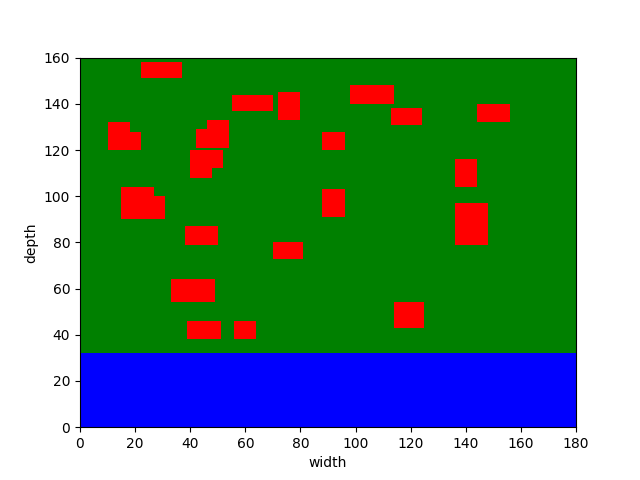
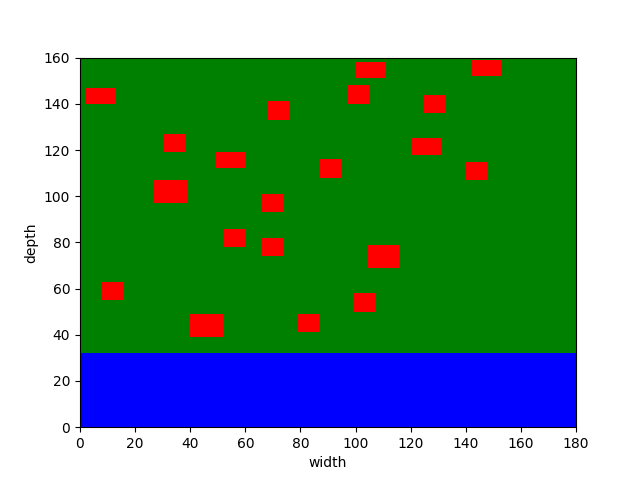
added some minor changes

diff --git a/code/algorithms/moving_hillclimber.py b/code/algorithms/moving_hillclimber.py
@@ -101,19 +101,19 @@ class Moving_Hillclimber:
 
         if random_direction == "up":
             # The y-coordinate goes up by 1
-            random_house_coordinates = [random_house.corner_lowerleft[0], random_house.corner_lowerleft[1] + 4]    
+            random_house_coordinates = [random_house.corner_lowerleft[0], random_house.corner_lowerleft[1] + 2]    
 
         elif random_direction == "down":
             # The y-coordinate goes down by 1
-            random_house_coordinates = [random_house.corner_lowerleft[0], random_house.corner_lowerleft[1] - 4]
+            random_house_coordinates = [random_house.corner_lowerleft[0], random_house.corner_lowerleft[1] - 2]
 
         elif random_direction == "left":
             # The x-coordinate goes down by 1
-            random_house_coordinates = [random_house.corner_lowerleft[0] - 4, random_house.corner_lowerleft[1]]
+            random_house_coordinates = [random_house.corner_lowerleft[0] - 2, random_house.corner_lowerleft[1]]
 
         elif random_direction == "right": 
             # The x-coordinate goes up by 1
-            random_house_coordinates = [random_house.corner_lowerleft[0] + 4, random_house.corner_lowerleft[1]]
+            random_house_coordinates = [random_house.corner_lowerleft[0] + 2, random_house.corner_lowerleft[1]]
 
         return random_house_coordinates
 
@@ -141,18 +141,18 @@ class Moving_Hillclimber:
         """
         if random_direction == "up":
             # The y-coordinate goes down by 1
-            random_house_coordinates = [random_house.corner_lowerleft[0], random_house.corner_lowerleft[1] - 4]
+            random_house_coordinates = [random_house.corner_lowerleft[0], random_house.corner_lowerleft[1] - 2]
 
         elif random_direction == "down":
             # The y-coordinate goes up by 1
-            random_house_coordinates = [random_house.corner_lowerleft[0], random_house.corner_lowerleft[1] + 4]
+            random_house_coordinates = [random_house.corner_lowerleft[0], random_house.corner_lowerleft[1] + 2]
 
         elif random_direction == "left":
             # The x-coordinate goes up by 1
-            random_house_coordinates = [random_house.corner_lowerleft[0] + 4, random_house.corner_lowerleft[1]]
+            random_house_coordinates = [random_house.corner_lowerleft[0] + 2, random_house.corner_lowerleft[1]]
 
         elif random_direction == "right":
             # The x-coordinate goes down by 1
-            random_house_coordinates = [random_house.corner_lowerleft[0] - 4, random_house.corner_lowerleft[1]]
+            random_house_coordinates = [random_house.corner_lowerleft[0] - 2, random_house.corner_lowerleft[1]]
 
         return random_house_coordinates

diff --git a/code/algorithms/annealing.py b/code/algorithms/annealing.py
@@ -1,6 +1,6 @@
 import random
-import copy
 import math
+import copy
 import matplotlib.pyplot as plt
 
 from code.classes.graph import Graph
@@ -22,20 +22,21 @@ class Simulated_Annealing(Moving_Hillclimber):
         """
 
         # Simulated Annealing Parameters
-        temp = 30
+        temp = 100000
         final_temp = 0.1    
-        alpha = 0.01
+        alpha = 0.99
 
+        # save the final prices to plot
         y_axes = []
 
         # create a random state
         current_state = self.area.randomly_assign_houses(self.houses)
+        # temporary best state
         solution = copy.deepcopy(self.houses)
 
         while temp > final_temp:
 
             for change in range(self.changes):
-                    
                 # make n changes to the positions of random houses
                 given_direction = self.random_direction()
                 moving_house = self.random_house(self.houses)
@@ -51,7 +52,7 @@ class Simulated_Annealing(Moving_Hillclimber):
             # calculate the cost difference
             cost_diff = new_totalprice - solution_totalprice
 
-            # if better -> keep this state
+            # keep new state if better than current solution
             if solution_totalprice < new_totalprice:
                 solution_totalprice = new_totalprice
                 solution = copy.deepcopy(self.houses)
@@ -59,22 +60,23 @@ class Simulated_Annealing(Moving_Hillclimber):
             elif random.uniform(0, 1) < math.exp(cost_diff / temp):
                 solution_totalprice = new_totalprice
                 solution = copy.deepcopy(self.houses)
-            # if state cannot be accepted
+
+            # state cannot be accepted
             else:
                 self.houses = solution
 
             # change the temp
-            temp -= alpha
+            temp *= alpha
 
             # reset the house prices
             self.area.price_reset(self.houses)
-            # print(solution_totalprice)
-            # y_axes.append(solution_totalprice)
 
-            # plt.subplot(131)
-            # plt.plot(y_axes)
-            # plt.savefig('../plots/simulated_annealing.png')
+            # plot the total price of the solutions
+            y_axes.append(solution_totalprice)
+            plt.subplot(131)
+            plt.plot(y_axes)
+            plt.savefig('plots/simulated_annealing.png')
         
         self.area.load_houses(solution)
-
         self.area.write_output(solution)
+        print(solution_totalprice)

diff --git a/main.py b/main.py
@@ -1,33 +1,13 @@
 import sys
 
-# from code.classes.House import House
 from code.classes.singlehouse import Singlehouse
 from code.classes.bungalow import Bungalow
 from code.classes.maison import Maison
 from code.classes.graph import Graph
 
-from code.algorithms.randomstate_hillclimber import Randomstate_Hillclimber
+from code.algorithms.random import Random
 from code.algorithms.moving_hillclimber import Moving_Hillclimber
 from code.algorithms.annealing import Simulated_Annealing
-
-
-
-#application/app2/some_folder/some_file.py
-
-# sys.path.append('amstelhaege/code/classes/singlehouse.py/')
-# sys.path.append('amstelhaege/code/classes/graph.py/')
-
-
-# from code.classes.singlehouse import Singlehouse
-# from code.classes.bungalow import Bungalow
-# from code.classes.maison import Maison
-# from code.classes.graph import Graph
-# from code.algorithms.annealing import Simulated_Annealing
-# from code.algorithms import moving_hillclimber
-# from code.algorithms import randomstate_hillclimber
-# from moving_hillclimber import Moving_Hillclimber
-# from randomstate_hillclimber import Randomstate_Hillclimber
-# from annealing import Simulated_Annealing
 
 
 # Request user for area number and number of houses
@@ -68,11 +48,11 @@ for maison in range(int(total_maisons)):
     all_houses.append(maison)
 
 print("Choose the algorithm with which you want to perform the calculation")
-print("Algorithmes available: Randomstate = 1, Hill Climber = 2, Simulated Annealing = 3")
+print("Algorithmes available: Random = 1, Hill Climber = 2, Simulated Annealing = 3")
 chosen_algorithm = input("Please choose your algorithm by entering the corresponding number: ")
 
 while chosen_algorithm not in ["1", "2", "3"]:
-    print("Algorithmes available: Randomstate = 1, Hill Climber = 2, Simulated Annealing = 3")
+    print("Algorithmes available: Random = 1, Hill Climber = 2, Simulated Annealing = 3")
     chosen_algorithm = input("Please choose your algorithm by entering the corresponding number: ")
 
 # The user has chosen the random algorithm
@@ -82,8 +62,8 @@ if chosen_algorithm == "1":
     while not loop.isdigit():
        loop = input("Insert number of runs: ")
     loops = int(loop)
-    randomstate_hillclimber = Randomstate_Hillclimber(loops, all_houses, area)
-    randomstate_hillclimber.looper()
+    random = Random(loops, all_houses, area)
+    random.looper()
 
 # The user has chosen the moving hill climber
 elif chosen_algorithm == "2":

diff --git a/code/classes/graph.py b/code/classes/graph.py
@@ -97,10 +97,6 @@ class Graph():
             water_box = box(data[1][0], data[1][1], data[2][0], data[2][1])
             water_boxes.append(water_box)
 
-        # check for overlap between edges graph and houses and save in list
-        # if graph_box.overlaps(housebox1):
-        #     return True
-
         # check if overlap with border of the map
         if self.check_borders(house):
             return True

diff --git a/code/algorithms/random.py b/code/algorithms/random.py
@@ -3,7 +3,7 @@ import matplotlib.pyplot as plt
 
 from code.classes.graph import Graph
 
-class Randomstate_Hillclimber:
+class Random:
 
     def __init__(self, loops, houses, area):
         self.loops = loops
